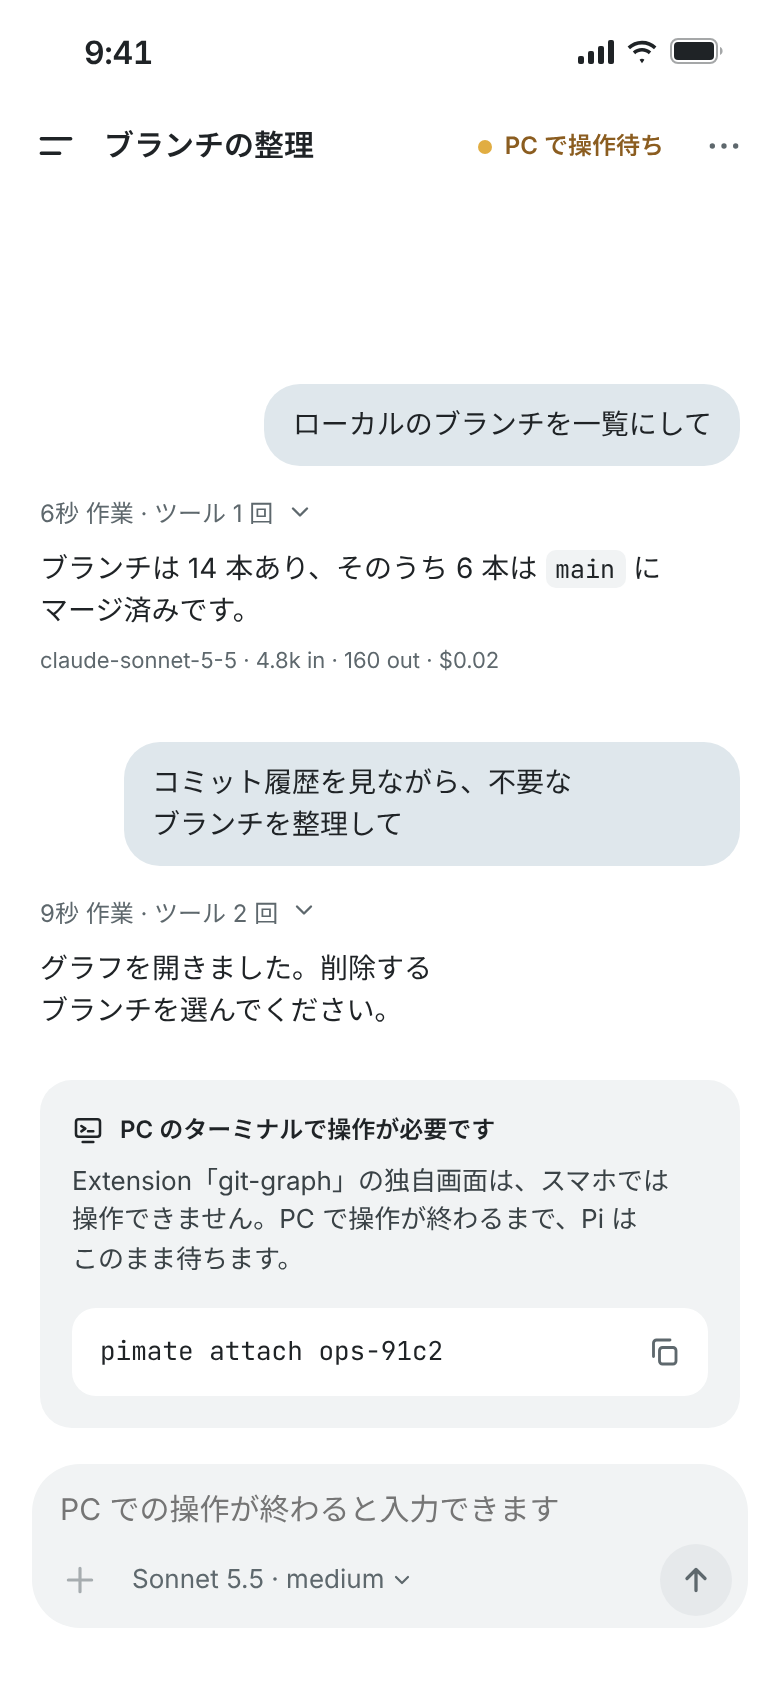
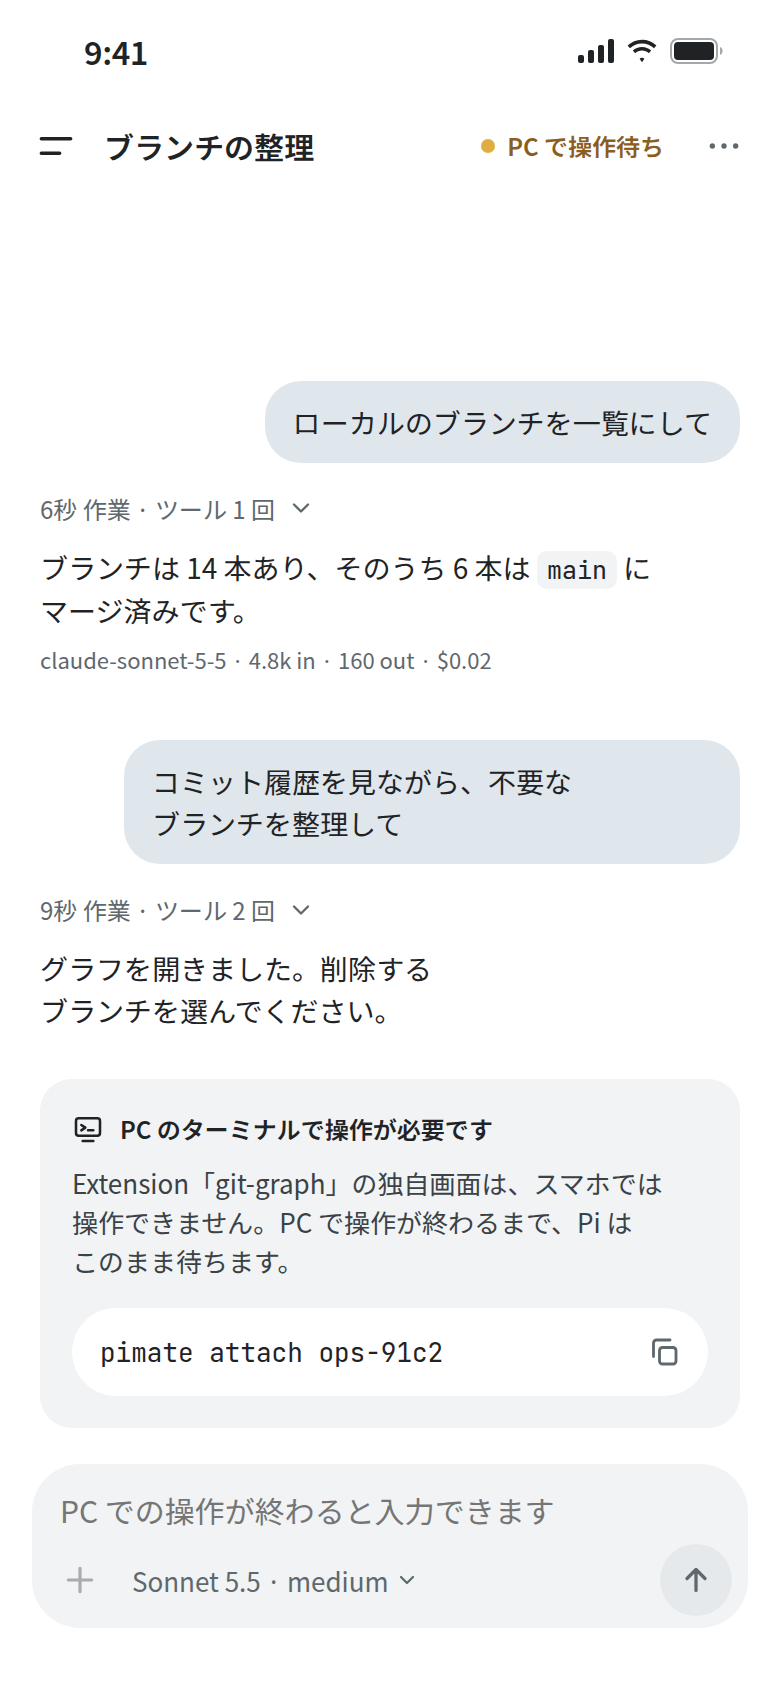
モックの主ボタン・1行の入力欄・コマンド表示をカプセル型に戻す

diff --git a/docs/design/html/Drawer.html b/docs/design/html/Drawer.html
@@ -29,7 +29,7 @@ html,body{margin:0;overflow:hidden}
 
   <nav aria-label="Pi Instance" style="position: absolute; top: 0; left: 0; width: 330px; height: 844px; box-sizing: border-box; padding: 47px 12px 50px; display: flex; flex-direction: column; background: #FFFFFF">
     <div style="display: flex; align-items: center; gap: 6px; padding: 6px 2px 0">
-      <label style="flex: 1; min-width: 0; height: 40px; display: flex; align-items: center; gap: 8px; padding: 0 14px; border-radius: 12px; background: #F1F3F4; color: #5E686D">
+      <label style="flex: 1; min-width: 0; height: 40px; display: flex; align-items: center; gap: 8px; padding: 0 14px; border-radius: 999px; background: #F1F3F4; color: #5E686D">
         <svg width="16" height="16" viewBox="0 0 24 24" aria-hidden="true" style="flex-shrink: 0; fill: none; stroke: currentColor; stroke-width: 2; stroke-linecap: round"><circle cx="11" cy="11" r="6.5"></circle><path d="M20 20l-4.2-4.2"></path></svg>
         <input type="search" placeholder="Instance・フォルダを検索" aria-label="Instance・フォルダを検索" style="flex: 1; min-width: 0; border: 0; outline: none; padding: 0; background: transparent; color: #1F2326; font-family: inherit; font-size: 14px">
       </label>
@@ -225,7 +225,7 @@ html,body{margin:0;overflow:hidden}
       <button aria-label="設定" style="width: 44px; height: 44px; border: 0; padding: 0; border-radius: 22px; background: transparent; display: flex; align-items: center; justify-content: center">
         <svg width="22" height="22" viewBox="0 0 24 24" aria-hidden="true" style="fill: none; stroke: #5E686D; stroke-width: 1.8; stroke-linecap: round; stroke-linejoin: round"><circle cx="12" cy="12" r="3"></circle><path d="M12 2.5v3M12 18.5v3M4.6 4.6l2.1 2.1M17.3 17.3l2.1 2.1M2.5 12h3M18.5 12h3M4.6 19.4l2.1-2.1M17.3 6.7l2.1-2.1"></path></svg>
       </button>
-      <button aria-label="新しい Pi を起動" style="height: 44px; display: flex; align-items: center; gap: 6px; border: 0; padding: 0 18px 0 14px; border-radius: 12px; background: #1B6B91; color: #FFFFFF; font-family: inherit; font-size: 14px; font-weight: 600">
+      <button aria-label="新しい Pi を起動" style="height: 44px; display: flex; align-items: center; gap: 6px; border: 0; padding: 0 18px 0 14px; border-radius: 999px; background: #1B6B91; color: #FFFFFF; font-family: inherit; font-size: 14px; font-weight: 600">
         <svg width="17" height="17" viewBox="0 0 24 24" aria-hidden="true" style="fill: none; stroke: currentColor; stroke-width: 2.2; stroke-linecap: round"><path d="M12 5v14M5 12h14"></path></svg>
         新しい Pi
       </button>

diff --git a/docs/design/mock/Drawer.dc.html b/docs/design/mock/Drawer.dc.html
@@ -34,7 +34,7 @@ html,body{margin:0;overflow:hidden}
 
   <nav aria-label="Pi Instance" style="position: absolute; top: 0; left: 0; width: 330px; height: 844px; box-sizing: border-box; padding: 47px 12px 50px; display: flex; flex-direction: column; background: #FFFFFF">
     <div style="display: flex; align-items: center; gap: 6px; padding: 6px 2px 0">
-      <label style="flex: 1; min-width: 0; height: 40px; display: flex; align-items: center; gap: 8px; padding: 0 14px; border-radius: 12px; background: #F1F3F4; color: #5E686D">
+      <label style="flex: 1; min-width: 0; height: 40px; display: flex; align-items: center; gap: 8px; padding: 0 14px; border-radius: 999px; background: #F1F3F4; color: #5E686D">
         <svg width="16" height="16" viewBox="0 0 24 24" aria-hidden="true" style="flex-shrink: 0; fill: none; stroke: currentColor; stroke-width: 2; stroke-linecap: round"><circle cx="11" cy="11" r="6.5"></circle><path d="M20 20l-4.2-4.2"></path></svg>
         <input type="search" placeholder="Instance・フォルダを検索" aria-label="Instance・フォルダを検索" style="flex: 1; min-width: 0; border: 0; outline: none; padding: 0; background: transparent; color: #1F2326; font-family: inherit; font-size: 14px">
       </label>
@@ -94,7 +94,7 @@ html,body{margin:0;overflow:hidden}
       <button aria-label="設定" style="width: 44px; height: 44px; border: 0; padding: 0; border-radius: 22px; background: transparent; display: flex; align-items: center; justify-content: center">
         <svg width="22" height="22" viewBox="0 0 24 24" aria-hidden="true" style="fill: none; stroke: #5E686D; stroke-width: 1.8; stroke-linecap: round; stroke-linejoin: round"><circle cx="12" cy="12" r="3"></circle><path d="M12 2.5v3M12 18.5v3M4.6 4.6l2.1 2.1M17.3 17.3l2.1 2.1M2.5 12h3M18.5 12h3M4.6 19.4l2.1-2.1M17.3 6.7l2.1-2.1"></path></svg>
       </button>
-      <button aria-label="新しい Pi を起動" style="height: 44px; display: flex; align-items: center; gap: 6px; border: 0; padding: 0 18px 0 14px; border-radius: 12px; background: #1B6B91; color: #FFFFFF; font-family: inherit; font-size: 14px; font-weight: 600">
+      <button aria-label="新しい Pi を起動" style="height: 44px; display: flex; align-items: center; gap: 6px; border: 0; padding: 0 18px 0 14px; border-radius: 999px; background: #1B6B91; color: #FFFFFF; font-family: inherit; font-size: 14px; font-weight: 600">
         <svg width="17" height="17" viewBox="0 0 24 24" aria-hidden="true" style="fill: none; stroke: currentColor; stroke-width: 2.2; stroke-linecap: round"><path d="M12 5v14M5 12h14"></path></svg>
         新しい Pi
       </button>

diff --git a/docs/design/mock/New-Pi.dc.html b/docs/design/mock/New-Pi.dc.html
@@ -46,7 +46,7 @@ html,body{margin:0;overflow:hidden}
     </div>
 
     <label for="newpi-folder" style="margin-top: 20px; font-size: 12px; font-weight: 600; color: #5E686D">フォルダ</label>
-    <div style="margin-top: 8px; height: 44px; display: flex; align-items: center; gap: 8px; padding: 0 0 0 14px; border-radius: 12px; background: #F1F3F4">
+    <div style="margin-top: 8px; height: 44px; display: flex; align-items: center; gap: 8px; padding: 0 0 0 14px; border-radius: 999px; background: #F1F3F4">
       <input id="newpi-folder" type="text" value="~/work/web" style="flex: 1; min-width: 0; border: 0; outline: none; padding: 0; background: transparent; color: #1F2326; font-family: 'JetBrains Mono', ui-monospace, Menlo, monospace; font-size: 13px">
       <button aria-label="フォルダを参照" style="width: 44px; height: 44px; flex-shrink: 0; border: 0; padding: 0; background: transparent; color: #5E686D; display: flex; align-items: center; justify-content: center">
         <svg width="18" height="18" viewBox="0 0 24 24" aria-hidden="true" style="fill: none; stroke: currentColor; stroke-width: 1.9; stroke-linejoin: round"><path d="M3 6.5A1.5 1.5 0 0 1 4.5 5H9l2 2.5h8.5A1.5 1.5 0 0 1 21 9v9.5a1.5 1.5 0 0 1-1.5 1.5h-15A1.5 1.5 0 0 1 3 18.5z"></path></svg>
@@ -84,7 +84,7 @@ html,body{margin:0;overflow:hidden}
 
   <footer style="flex-shrink: 0; padding: 12px 20px 30px; display: flex; flex-direction: column; gap: 12px">
     <span style="font-size: 12px; color: #5E686D; text-align: center">起動後は PC の <code style="font-family: 'JetBrains Mono', ui-monospace, Menlo, monospace">pimate attach</code> で同じ Pi に接続できます</span>
-    <button style="height: 48px; border: 0; border-radius: 12px; background: #1B6B91; color: #FFFFFF; font-family: inherit; font-size: 15px; font-weight: 600">起動</button>
+    <button style="height: 48px; border: 0; border-radius: 999px; background: #1B6B91; color: #FFFFFF; font-family: inherit; font-size: 15px; font-weight: 600">起動</button>
   </footer>
 </div>
 </x-dc>

diff --git a/docs/design/html/Tokens.html b/docs/design/html/Tokens.html
@@ -184,11 +184,11 @@ html,body{margin:0;overflow:hidden}
       
         <div style="padding: 10px 12px; border-radius: 12px; background: #F1F3F4">
           <div style="font-size: 11px; color: #5E686D">主操作・1行の入力欄・コマンド</div>
-          <div style="font-size: 15px; font-weight: 600; font-variant-numeric: tabular-nums">角丸 12 px</div>
+          <div style="font-size: 15px; font-weight: 600; font-variant-numeric: tabular-nums">カプセル型</div>
         </div>
       
         <div style="padding: 10px 12px; border-radius: 12px; background: #F1F3F4">
-          <div style="font-size: 11px; color: #5E686D">角丸（カード・入力欄）</div>
+          <div style="font-size: 11px; color: #5E686D">角丸（カード・複数行の入力欄）</div>
           <div style="font-size: 15px; font-weight: 600; font-variant-numeric: tabular-nums">16–24 px</div>
         </div>
       
@@ -214,8 +214,8 @@ html,body{margin:0;overflow:hidden}
     <h2 style="margin: 0; font-size: 20px; font-weight: 700">部品</h2>
     <div style="display: flex; flex-direction: column; gap: 10px">
       <div style="display: flex; align-items: center; gap: 12px">
-        <button style="height: 44px; border: 0; padding: 0 22px; border-radius: 12px; background: #1B6B91; color: #FFFFFF; font-family: inherit; font-size: 14px; font-weight: 600">主操作</button>
-        <span style="font-size: 12px; color: #5E686D">1画面に1つまで。角丸 12px</span>
+        <button style="height: 44px; border: 0; padding: 0 22px; border-radius: 999px; background: #1B6B91; color: #FFFFFF; font-family: inherit; font-size: 14px; font-weight: 600">主操作</button>
+        <span style="font-size: 12px; color: #5E686D">1画面に1つまで。カプセル型</span>
       </div>
       <div style="display: flex; align-items: center; gap: 4px">
         <button style="height: 44px; border: 0; padding: 0 10px; background: transparent; color: #155A7A; font-family: inherit; font-size: 14px; font-weight: 600">テキスト</button>

diff --git a/docs/design/html/New-Pi.html b/docs/design/html/New-Pi.html
@@ -47,7 +47,7 @@ html,body{margin:0;overflow:hidden}
     </div>
 
     <label for="newpi-folder" style="margin-top: 20px; font-size: 12px; font-weight: 600; color: #5E686D">フォルダ</label>
-    <div style="margin-top: 8px; height: 44px; display: flex; align-items: center; gap: 8px; padding: 0 0 0 14px; border-radius: 12px; background: #F1F3F4">
+    <div style="margin-top: 8px; height: 44px; display: flex; align-items: center; gap: 8px; padding: 0 0 0 14px; border-radius: 999px; background: #F1F3F4">
       <input id="newpi-folder" type="text" value="~/work/web" style="flex: 1; min-width: 0; border: 0; outline: none; padding: 0; background: transparent; color: #1F2326; font-family: 'JetBrains Mono', ui-monospace, Menlo, monospace; font-size: 13px">
       <button aria-label="フォルダを参照" style="width: 44px; height: 44px; flex-shrink: 0; border: 0; padding: 0; background: transparent; color: #5E686D; display: flex; align-items: center; justify-content: center">
         <svg width="18" height="18" viewBox="0 0 24 24" aria-hidden="true" style="fill: none; stroke: currentColor; stroke-width: 1.9; stroke-linejoin: round"><path d="M3 6.5A1.5 1.5 0 0 1 4.5 5H9l2 2.5h8.5A1.5 1.5 0 0 1 21 9v9.5a1.5 1.5 0 0 1-1.5 1.5h-15A1.5 1.5 0 0 1 3 18.5z"></path></svg>
@@ -90,7 +90,7 @@ html,body{margin:0;overflow:hidden}
 
   <footer style="flex-shrink: 0; padding: 12px 20px 30px; display: flex; flex-direction: column; gap: 12px">
     <span style="font-size: 12px; color: #5E686D; text-align: center">起動後は PC の <code style="font-family: 'JetBrains Mono', ui-monospace, Menlo, monospace">pimate attach</code> で同じ Pi に接続できます</span>
-    <button style="height: 48px; border: 0; border-radius: 12px; background: #1B6B91; color: #FFFFFF; font-family: inherit; font-size: 15px; font-weight: 600">起動</button>
+    <button style="height: 48px; border: 0; border-radius: 999px; background: #1B6B91; color: #FFFFFF; font-family: inherit; font-size: 15px; font-weight: 600">起動</button>
   </footer>
 </div>
 

diff --git a/docs/design/mock/Tokens.dc.html b/docs/design/mock/Tokens.dc.html
@@ -60,8 +60,8 @@ html,body{margin:0;overflow:hidden}
     <h2 style="margin: 0; font-size: 20px; font-weight: 700">部品</h2>
     <div style="display: flex; flex-direction: column; gap: 10px">
       <div style="display: flex; align-items: center; gap: 12px">
-        <button style="height: 44px; border: 0; padding: 0 22px; border-radius: 12px; background: #1B6B91; color: #FFFFFF; font-family: inherit; font-size: 14px; font-weight: 600">主操作</button>
-        <span style="font-size: 12px; color: #5E686D">1画面に1つまで。角丸 12px</span>
+        <button style="height: 44px; border: 0; padding: 0 22px; border-radius: 999px; background: #1B6B91; color: #FFFFFF; font-family: inherit; font-size: 14px; font-weight: 600">主操作</button>
+        <span style="font-size: 12px; color: #5E686D">1画面に1つまで。カプセル型</span>
       </div>
       <div style="display: flex; align-items: center; gap: 4px">
         <button style="height: 44px; border: 0; padding: 0 10px; background: transparent; color: #155A7A; font-family: inherit; font-size: 14px; font-weight: 600">テキスト</button>
@@ -155,8 +155,8 @@ class Component extends DCLogic {
       sizes: [
         { label: 'タップ領域 / ツールの行', value: '44 / 32 px' },
         { label: '入力欄の中の操作', value: '36 px' },
-        { label: '主操作・1行の入力欄・コマンド', value: '角丸 12 px' },
-        { label: '角丸（カード・入力欄）', value: '16–24 px' },
+        { label: '主操作・1行の入力欄・コマンド', value: 'カプセル型' },
+        { label: '角丸（カード・複数行の入力欄）', value: '16–24 px' },
         { label: '角丸（シート）', value: '16 px' },
         { label: '画面の左右 / ターンの間', value: '20 / 32 px' },
         { label: 'リストの行', value: '52 px 以上' }

diff --git a/docs/design/mock/Chat-Waiting.dc.html b/docs/design/mock/Chat-Waiting.dc.html
@@ -74,12 +74,12 @@ html,body{margin:0;overflow:hidden}
           </button>
         </sc-for>
       </div>
-      <label style="margin-top: 6px; height: 44px; display: flex; align-items: center; padding: 0 14px; border-radius: 20px; background: #FFFFFF">
+      <label style="margin-top: 6px; height: 44px; display: flex; align-items: center; padding: 0 14px; border-radius: 999px; background: #FFFFFF">
         <input type="text" placeholder="その他（自由に入力）" aria-label="その他の回答" style="flex: 1; border: 0; outline: none; padding: 0; background: transparent; color: #1F2326; font-family: inherit; font-size: 14px">
       </label>
       <div style="margin-top: 14px; display: flex; align-items: center; justify-content: flex-end; gap: 4px">
         <button style="height: 40px; border: 0; padding: 0 14px; background: transparent; color: #5E686D; font-family: inherit; font-size: 14px">キャンセル</button>
-        <button style="height: 40px; border: 0; padding: 0 20px; border-radius: 12px; background: #1B6B91; color: #FFFFFF; font-family: inherit; font-size: 14px; font-weight: 600">回答する</button>
+        <button style="height: 40px; border: 0; padding: 0 20px; border-radius: 999px; background: #1B6B91; color: #FFFFFF; font-family: inherit; font-size: 14px; font-weight: 600">回答する</button>
       </div>
     </section>
   </main>

diff --git a/docs/design/html/Chat-Waiting.html b/docs/design/html/Chat-Waiting.html
@@ -85,12 +85,12 @@ html,body{margin:0;overflow:hidden}
           </button>
         
       </div>
-      <label style="margin-top: 6px; height: 44px; display: flex; align-items: center; padding: 0 14px; border-radius: 20px; background: #FFFFFF">
+      <label style="margin-top: 6px; height: 44px; display: flex; align-items: center; padding: 0 14px; border-radius: 999px; background: #FFFFFF">
         <input type="text" placeholder="その他（自由に入力）" aria-label="その他の回答" style="flex: 1; border: 0; outline: none; padding: 0; background: transparent; color: #1F2326; font-family: inherit; font-size: 14px">
       </label>
       <div style="margin-top: 14px; display: flex; align-items: center; justify-content: flex-end; gap: 4px">
         <button style="height: 40px; border: 0; padding: 0 14px; background: transparent; color: #5E686D; font-family: inherit; font-size: 14px">キャンセル</button>
-        <button style="height: 40px; border: 0; padding: 0 20px; border-radius: 12px; background: #1B6B91; color: #FFFFFF; font-family: inherit; font-size: 14px; font-weight: 600">回答する</button>
+        <button style="height: 40px; border: 0; padding: 0 20px; border-radius: 999px; background: #1B6B91; color: #FFFFFF; font-family: inherit; font-size: 14px; font-weight: 600">回答する</button>
       </div>
     </section>
   </main>

diff --git a/docs/design/html/Chat-Attach.html b/docs/design/html/Chat-Attach.html
@@ -60,7 +60,7 @@ html,body{margin:0;overflow:hidden}
         PC のターミナルで操作が必要です
       </div>
       <p style="margin: 8px 0 0; font-size: 13px; color: #3A4246">Extension「git-graph」の独自画面は、スマホでは操作できません。PC で操作が終わるまで、Pi はこのまま待ちます。</p>
-      <div style="margin-top: 14px; display: flex; align-items: center; gap: 4px; height: 44px; padding: 0 0 0 14px; border-radius: 12px; background: #FFFFFF">
+      <div style="margin-top: 14px; display: flex; align-items: center; gap: 4px; height: 44px; padding: 0 0 0 14px; border-radius: 999px; background: #FFFFFF">
         <code style="flex: 1; font-family: 'JetBrains Mono', ui-monospace, Menlo, monospace; font-size: 13px">pimate attach ops-91c2</code>
         <button aria-label="コマンドをコピー" style="width: 44px; height: 44px; flex-shrink: 0; border: 0; padding: 0; background: transparent; color: #5E686D; display: flex; align-items: center; justify-content: center">
           <svg width="18" height="18" viewBox="0 0 24 24" aria-hidden="true" style="fill: none; stroke: currentColor; stroke-width: 1.9; stroke-linecap: round; stroke-linejoin: round"><rect x="9" y="9" width="11" height="11" rx="2"></rect><path d="M5 15V6a2 2 0 0 1 2-2h9"></path></svg>

diff --git a/docs/design/mock/Chat-Attach.dc.html b/docs/design/mock/Chat-Attach.dc.html
@@ -65,7 +65,7 @@ html,body{margin:0;overflow:hidden}
         PC のターミナルで操作が必要です
       </div>
       <p style="margin: 8px 0 0; font-size: 13px; color: #3A4246">Extension「git-graph」の独自画面は、スマホでは操作できません。PC で操作が終わるまで、Pi はこのまま待ちます。</p>
-      <div style="margin-top: 14px; display: flex; align-items: center; gap: 4px; height: 44px; padding: 0 0 0 14px; border-radius: 12px; background: #FFFFFF">
+      <div style="margin-top: 14px; display: flex; align-items: center; gap: 4px; height: 44px; padding: 0 0 0 14px; border-radius: 999px; background: #FFFFFF">
         <code style="flex: 1; font-family: 'JetBrains Mono', ui-monospace, Menlo, monospace; font-size: 13px">pimate attach ops-91c2</code>
         <button aria-label="コマンドをコピー" style="width: 44px; height: 44px; flex-shrink: 0; border: 0; padding: 0; background: transparent; color: #5E686D; display: flex; align-items: center; justify-content: center">
           <svg width="18" height="18" viewBox="0 0 24 24" aria-hidden="true" style="fill: none; stroke: currentColor; stroke-width: 1.9; stroke-linecap: round; stroke-linejoin: round"><rect x="9" y="9" width="11" height="11" rx="2"></rect><path d="M5 15V6a2 2 0 0 1 2-2h9"></path></svg>

diff --git a/docs/design/html/Sheet-Session.html b/docs/design/html/Sheet-Session.html
@@ -78,7 +78,7 @@ html,body{margin:0;overflow:hidden}
       <span style="flex: 1">起動元</span>
       <span style="font-size: 13px; color: #5E686D">スマホ · PC から未接続</span>
     </div>
-    <div style="display: flex; align-items: center; gap: 4px; height: 44px; padding-left: 14px; border-radius: 12px; background: #F1F3F4">
+    <div style="display: flex; align-items: center; gap: 4px; height: 44px; padding-left: 14px; border-radius: 999px; background: #F1F3F4">
       <code style="flex: 1; font-family: 'JetBrains Mono', ui-monospace, Menlo, monospace; font-size: 13px">pimate attach demo-7f3a</code>
       <button aria-label="コマンドをコピー" style="width: 44px; height: 44px; flex-shrink: 0; border: 0; padding: 0; background: transparent; color: #5E686D; display: flex; align-items: center; justify-content: center">
         <svg width="18" height="18" viewBox="0 0 24 24" aria-hidden="true" style="fill: none; stroke: currentColor; stroke-width: 1.9; stroke-linecap: round; stroke-linejoin: round"><rect x="9" y="9" width="11" height="11" rx="2"></rect><path d="M5 15V6a2 2 0 0 1 2-2h9"></path></svg>

diff --git a/docs/design/mock/Sheet-Session.dc.html b/docs/design/mock/Sheet-Session.dc.html
@@ -63,7 +63,7 @@ html,body{margin:0;overflow:hidden}
       <span style="flex: 1">起動元</span>
       <span style="font-size: 13px; color: #5E686D">スマホ · PC から未接続</span>
     </div>
-    <div style="display: flex; align-items: center; gap: 4px; height: 44px; padding-left: 14px; border-radius: 12px; background: #F1F3F4">
+    <div style="display: flex; align-items: center; gap: 4px; height: 44px; padding-left: 14px; border-radius: 999px; background: #F1F3F4">
       <code style="flex: 1; font-family: 'JetBrains Mono', ui-monospace, Menlo, monospace; font-size: 13px">pimate attach demo-7f3a</code>
       <button aria-label="コマンドをコピー" style="width: 44px; height: 44px; flex-shrink: 0; border: 0; padding: 0; background: transparent; color: #5E686D; display: flex; align-items: center; justify-content: center">
         <svg width="18" height="18" viewBox="0 0 24 24" aria-hidden="true" style="fill: none; stroke: currentColor; stroke-width: 1.9; stroke-linecap: round; stroke-linejoin: round"><rect x="9" y="9" width="11" height="11" rx="2"></rect><path d="M5 15V6a2 2 0 0 1 2-2h9"></path></svg>
